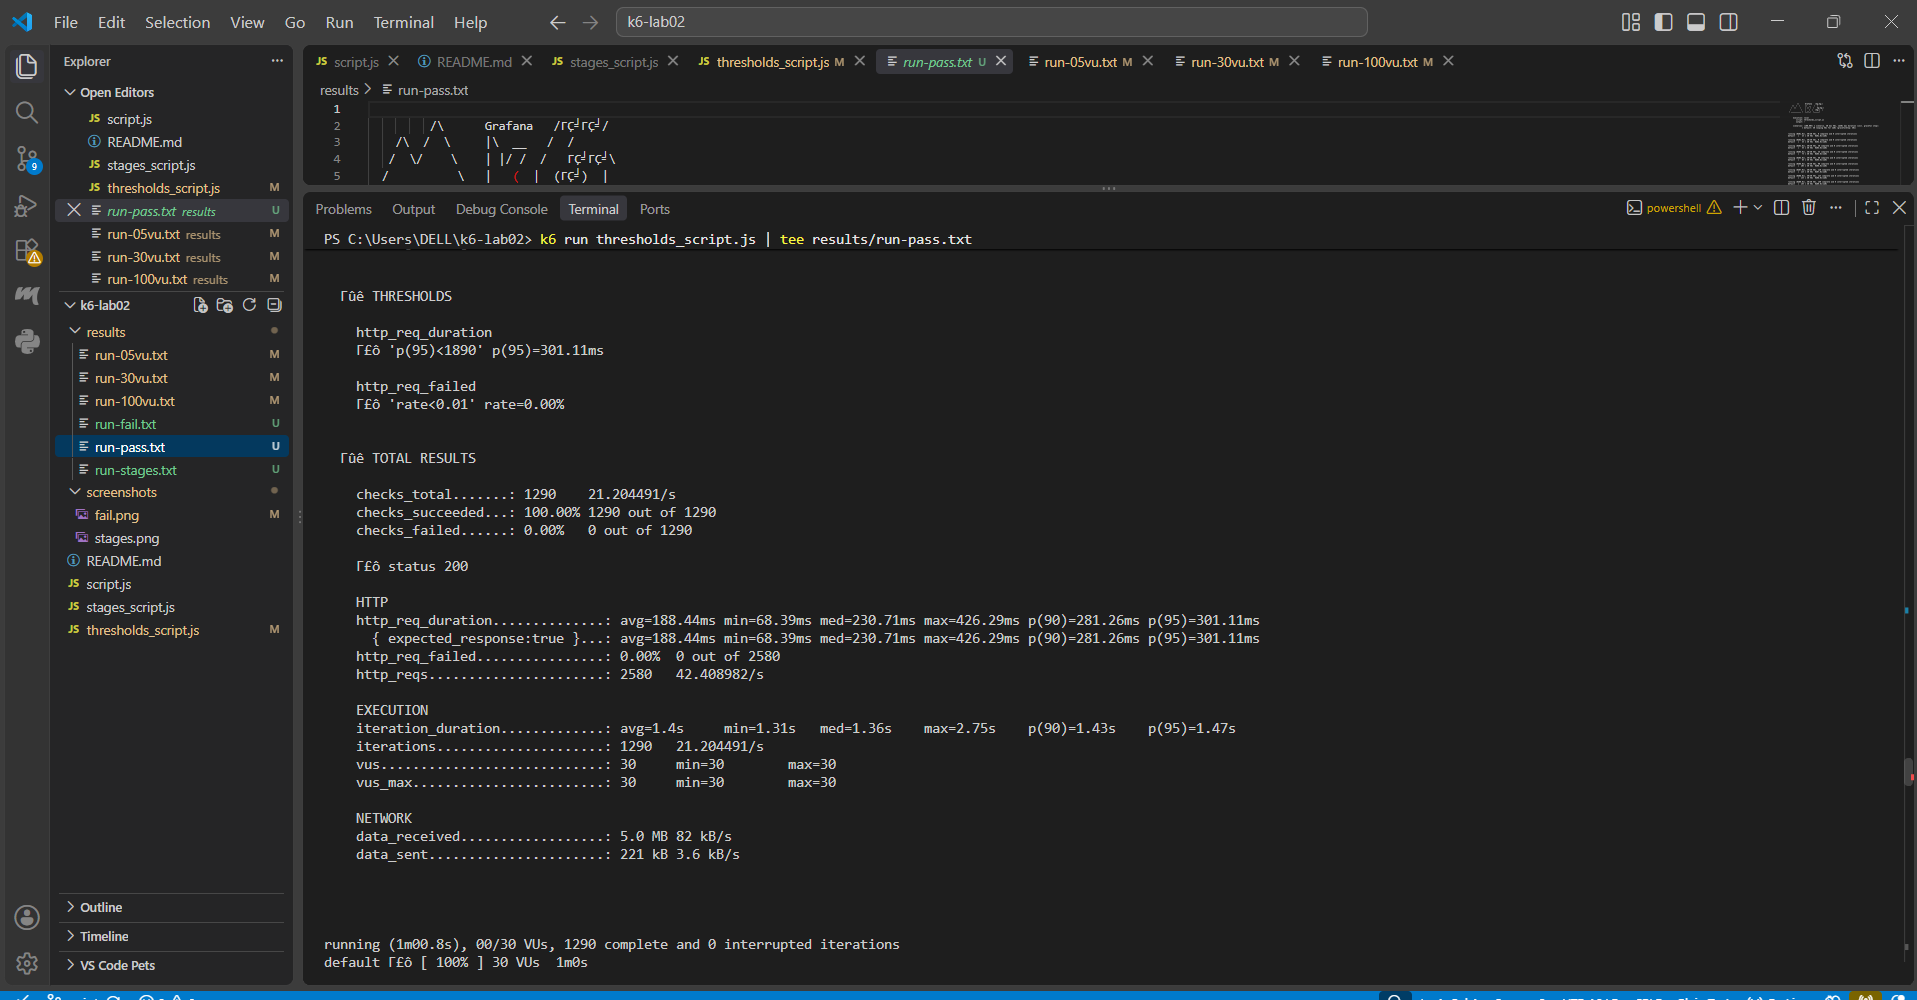
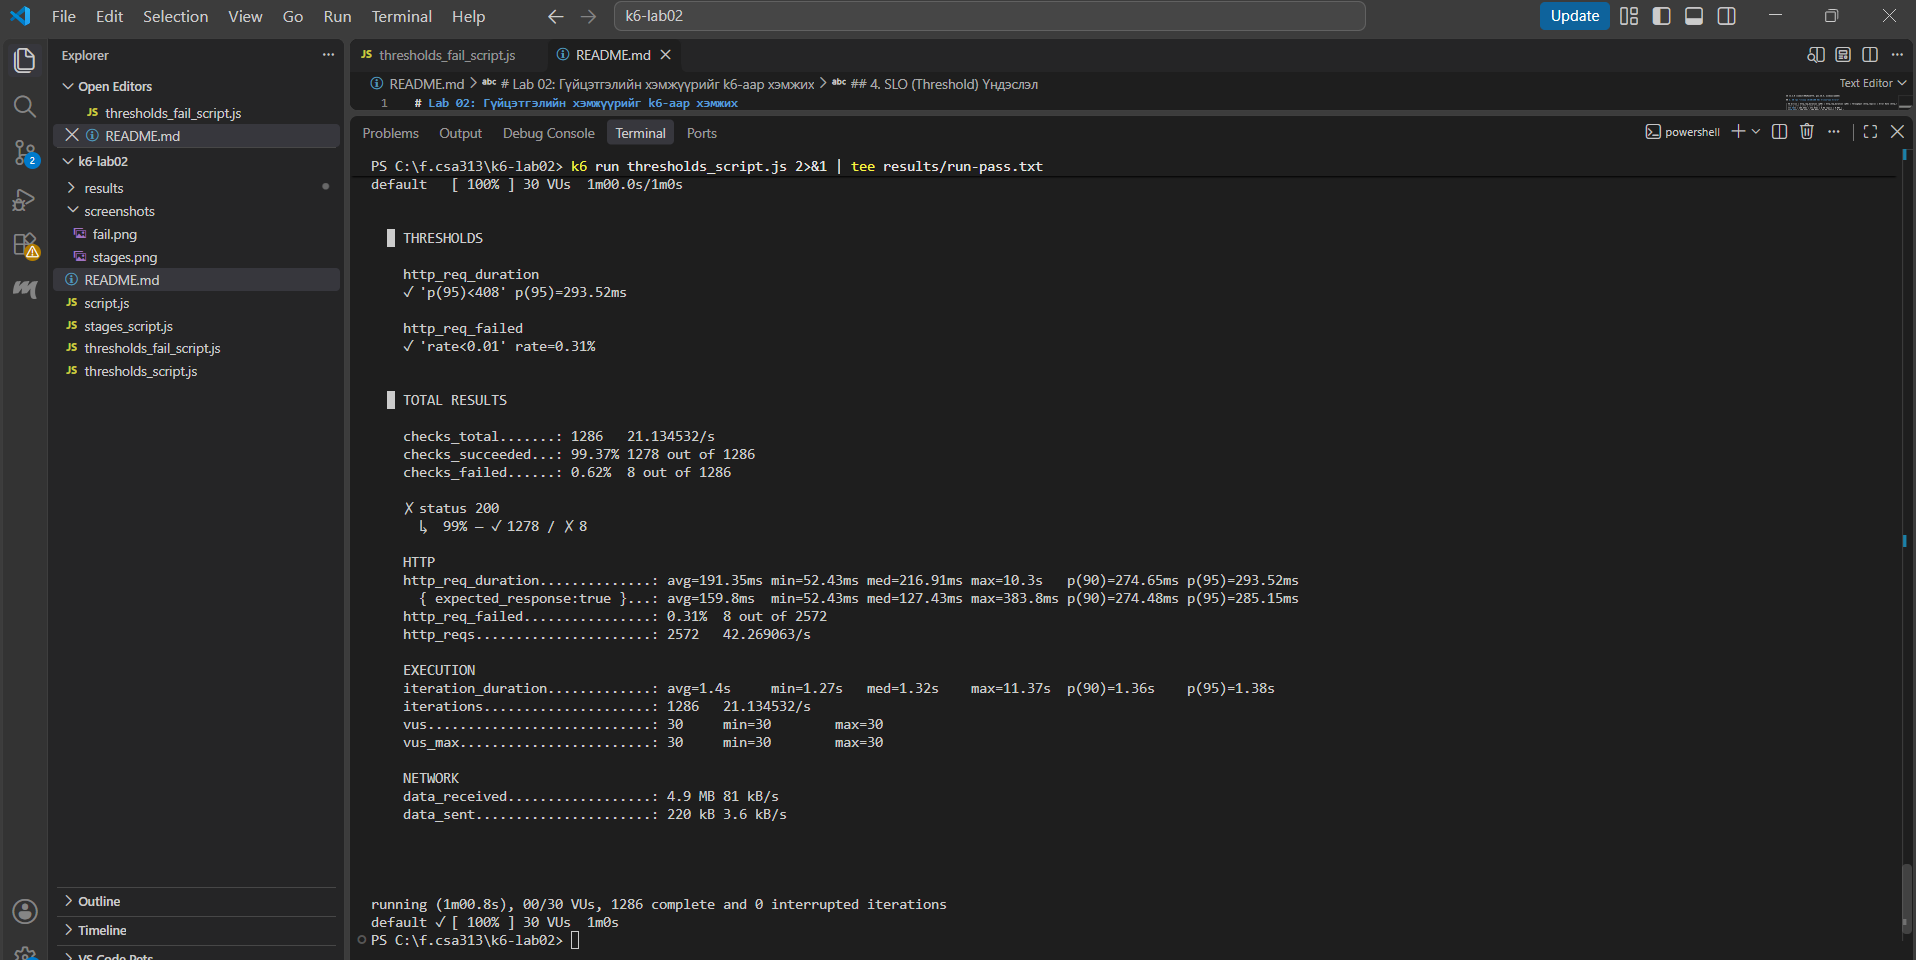
fix: rerun PASS test with UTF-8 terminal, sync screenshot and README metrics

diff --git a/README.md b/README.md
@@ -36,14 +36,16 @@ SLO threshold = baseline × 1.5 = 271.92 × 1.5 ≈ 408ms
 Pass туршилтын үр дүн (results/run-pass.txt)
 thresholds_script.js дотор p(95)<408 босго тавьж ажиллуулахад дараах бодит үр дүн гарч PASS болсон:
 
-Бодит p95 latency: 345.09ms (✓ 'p(95)<408')
+Бодит p95 latency: 293.52ms (✓ 'p(95)<408')
 
-Throughput: 40.46 req/s (2438 requests)
+Throughput: 42.27 req/s (2572 requests)
 
-Error Rate: 0.00% (✓ 'rate<0.01')
+Error Rate: 0.31% (8 out of 2572) (✓ 'rate<0.01')
+
+Анхаарах зүйл: энэ run-д 8 хүсэлт амжилтгүй болсон тул `status 200` check 99.37% (1278/1286) байсан ба терминалд `✗ status 200` гэж харагдана. Гэвч http_req_failed = 0.31% нь SLO-ийн 1%-ийн хязгаараас доогуур тул threshold-ууд хангагдаж, тест PASS болсон.
 
 FAIL демонстраци (results/run-fail.txt, thresholds_fail_script.js)
-Босгыг p(95)<500ms болгож, бусад тохиргоог (30 VU, 1м) хэвээр үлдээсэн. Бодит p95 = 5.36s (p90 = 3.94s, max = 9.87s) тул `p(95)<500` босго зөрчигдөж (✗), `rate<0.01` биелсэн (✓, 0.00%). Энэ FAIL нь босгыг санаатайгаар хэт чанга болгосноос бус, тухайн ажиллуулалтад test.k6.io-ийн хариу огцом удаашрсанаас үүссэн (steady 30 VU-ийн PASS run-д p95 = 345.09ms байсан). Энэ нь гадаад серверийн хэлбэлзэл quality gate-д шууд нөлөөлдгийг харуулна.
+Босгыг p(95)<500ms болгож, бусад тохиргоог (30 VU, 1м) хэвээр үлдээсэн. Бодит p95 = 5.36s (p90 = 3.94s, max = 9.87s) тул `p(95)<500` босго зөрчигдөж (✗), `rate<0.01` биелсэн (✓, 0.00%). Энэ FAIL нь босгыг санаатайгаар хэт чанга болгосноос бус, тухайн ажиллуулалтад test.k6.io-ийн хариу огцом удаашрсанаас үүссэн (steady 30 VU-ийн PASS run-д p95 = 293.52ms байсан). Энэ нь гадаад серверийн хэлбэлзэл quality gate-д шууд нөлөөлдгийг харуулна.
 
 k6 нь threshold зөрчигдөхөд терминалд `ERRO[0062] thresholds on metrics 'http_req_duration' have been crossed` гэж хэвлэж, процессыг exit code 99-өөр дуусгадаг (CI pipeline-ийн build-ийг автоматаар зогсоодог механизм). ERRO мөр stderr-т гардаг тул PowerShell-ийн `| tee` файлд хуулдаггүй; терминалын гаралтыг screenshots/fail.png-д харуулсан.
 
@@ -62,4 +64,12 @@ k6 нь threshold зөрчигдөхөд терминалд `ERRO[0062] threshol
 
 
 ## 6. Дүгнэлт
-VU тоо 5-аас 100 болж өсөхөд throughput 6.96-аас 137.43 хүсэлт/секунд хүртэл бараг шугаман өссөн бол p95 latency 271.92ms-ээс 380.72ms хүртэл дунд зэрэг (~40%) нэмэгдсэн — энэ нь Лекц 2-ын "ачаалал өсөхөд throughput ба latency хоорондын зөрчил үүсдэг" ойлголтыг баталж байна. Гурван steady-state түвшинд алдааны хувь 0% хэвээр байсан нь test.k6.io тогтмол ачаалалд сайн даацтай болохыг харуулна. Харин ижил дээд 100 VU-тэй ч ramping (stages) хувилбарт checks_succeeded 20.48% хүртэл унаж, http_req_failed 64.42% болсон нь маш чухал ялгаа — steady load ба ramping load нь ижил VU дээр ч бүрэн өөр үр дүн өгч болохыг харуулж байна. SLO threshold-оо 5 VU-ийн бодит p95 (271.92ms) дээр суурилж 408ms болгон шинэчлэхэд бодит p95 нь 345.09ms гарж амжилттай PASS болсон. Харин хатуу threshold тавихад тест FAIL болж exit status 1 буцаасан нь CI pipeline-ийн quality gate хэрхэн ажилладгийг харуулсан.
+1. VU тоо 5-аас 100 болоход throughput 6.96-аас 137.43 req/s болж (≈19.7 дахин) VU-тэй бараг шугаман өссөн.
+2. Харин p95 latency 271.92ms-ээс 380.72ms (≈1.4 дахин) болж, p90 нь 265.55ms-ээс 303.12ms хүртэл бага зэрэг өссөн нь ачаалал нэмэгдэх тусам "хэрэглэгчийн туршлага" аажим муудаж байгааг харуулна.
+3. Хамгийн тод өөрчлөлт 100 VU дээр гарсан: max latency 1.02s хүрч, p95 нь 30 VU-ийн 309.05ms-ээс 380.72ms болсон тул "хэрэглэгчийн туршлага" муудаж эхэлсэн цэг 30–100 VU-ийн завсарт байна.
+4. Гурван steady-state түвшинд error rate 0.00% байсан тул энэ ачааллын хүрээнд availability алдагдаагүй.
+5. Гэтэл ижил дээд 100 VU-тэй ramping (stages) ажиллуулалт бүтэлгүйтэж, http_req_failed 64.42%, checks_succeeded 20.48%, p95 = 1м (timeout) болсон нь Лекц 2-ын latency, throughput, error rate гурвыг тусад нь бус хамтад нь хянах ёстойг батлав.
+6. Steady ба ramping ачаалал ижил дээд VU дээр ч эрс өөр үр дүн өгсөн нь VU-ийн тоо ганцаараа ачааллыг тодорхойлдоггүй, ачаалал өсөх хурд мөн чухал гэдгийг харуулсан; шалтгааныг (гадаад сервер, Windows socket хязгаар, connection storm) би хэмжилтээр баталгаажуулаагүй, зөвхөн таамаглал.
+7. SLO-оо 5 VU baseline p95 (271.92ms) × 1.5 ≈ 408ms гэж тодорхойлсон, учир нь baseline-аас хангалттай зайтай боловч хэрэглэгчийн мэдрэгдэхүйц удаашралыг мөрдөх хэмжээнд байна.
+8. Энэ SLO-г 30 VU дээр шалгахад p95 = 293.52ms, error rate = 0.31% (2572 хүсэлтээс 8 нь амжилтгүй) гарч босго хоёулаа хангагдсан (PASS); харин өмнөх тусдаа 30 VU run-д error rate 0.00% байсан тул гадаад серверийн хариу ажиллуулалт бүрт өөр байдгийг харуулна.
+9. Харин p(95)<500 босготой FAIL run-д p95 = 5.36s гарч босго зөрчигдсөн нь гадаад серверийн хэлбэлзэл ч quality gate-ийг унагаж болохыг, иймээс CI-д найдвартай шалгалт хийхэд локал сервер (Алхам 5) илүү тохиромжтойг харуулж байна.
